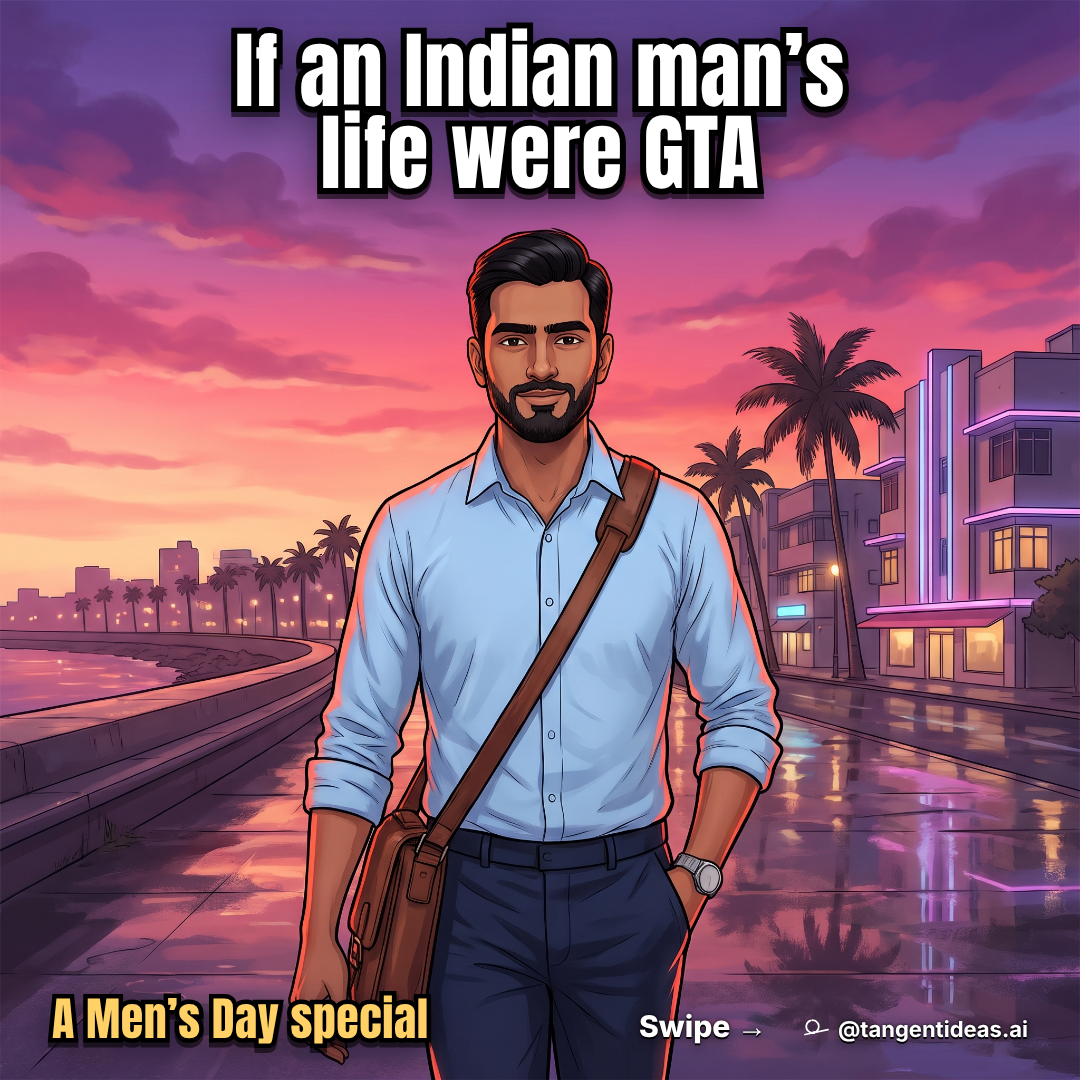
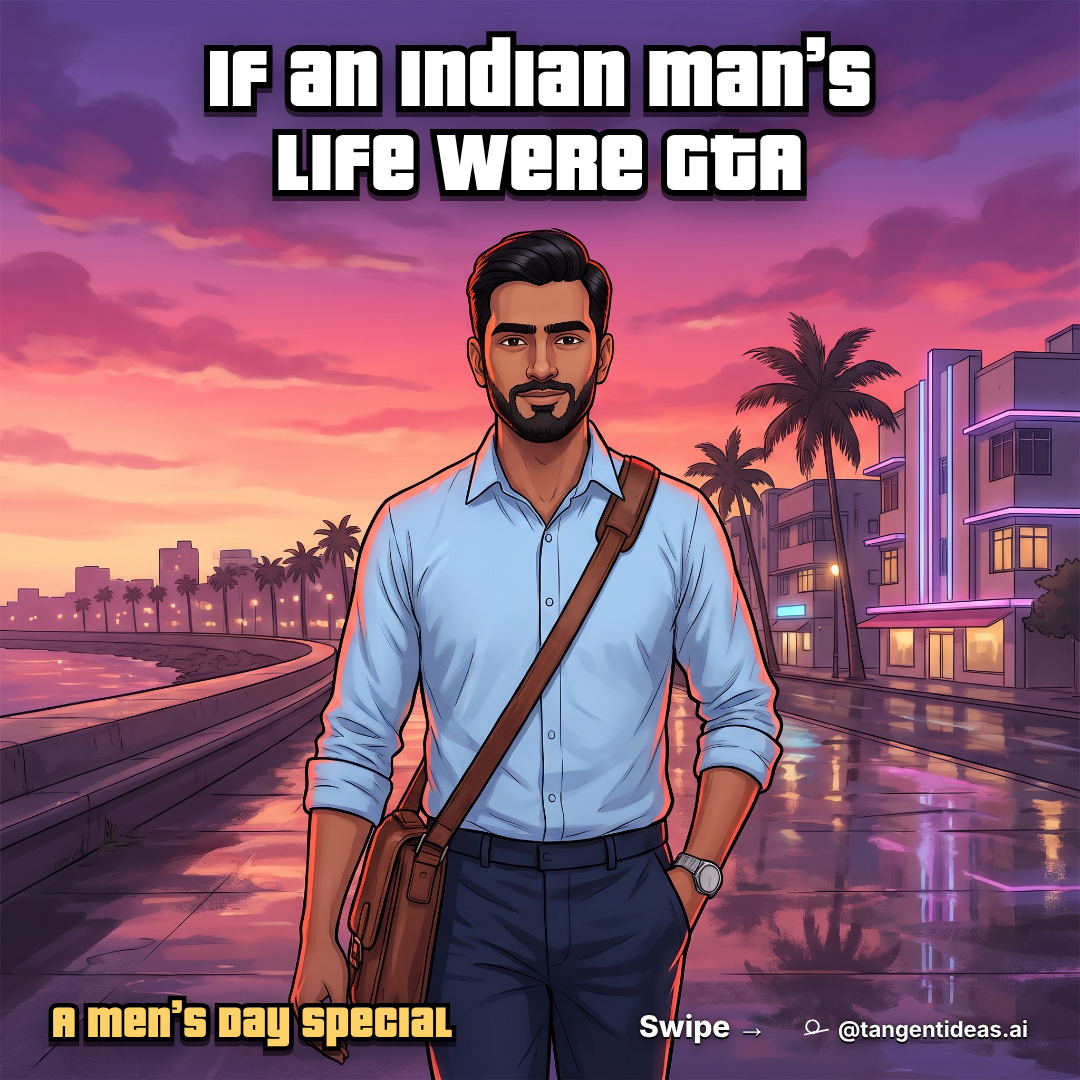
optB: Pricedown headlines, slide 3 line fix, re-render
Slide 3 second line is now "Resting doesn't fix it." to match optB/carousel.md.
Headlines render in Pricedown Black (same outline + drop-shadow treatment as
optA; font stays git-ignored). Small B lines on slides 2, 3 and 6 use Inter 800
yellow, because Pricedown's 1 reads as I at small sizes. The cover's B line stays
Pricedown. The rupee sign on slide 4 is set in Inter because neither display face
has the glyph. Re-rendered slides 01-08 + contact sheet; overflow check clean.

Claude-Session: https://claude.ai/code/session_01ETPVMNAgrWUka4sohQFQn4

Changed region(s): [[0.1833, 0.0, 0.825, 0.2139], [0.0306, 0.9167, 0.4278, 0.9778]]

diff --git a/productions/2026-11-gta6-mens-day/optB/slides/html/slide-03.html b/productions/2026-11-gta6-mens-day/optB/slides/html/slide-03.html
@@ -1,12 +1,14 @@
 <!doctype html><html><head><meta charset="utf-8"><style>
 @import url('https://fonts.googleapis.com/css2?family=Anton&family=Inter:wght@600;700;800;900&display=block');
-
+@font-face{font-family:'PD';src:url('file:///home/user/tangent-social-media/productions/2026-11-gta6-mens-day/fonts/PricedownBl.otf');font-display:block}
 *{box-sizing:border-box}
 html,body{margin:0;width:1080px;height:1080px;overflow:hidden;color:#fff}
 .s{position:relative;width:1080px;height:1080px;padding:40px 52px 36px;display:flex;flex-direction:column}
 .o{paint-order:stroke fill;-webkit-text-stroke:var(--sw,12px) #000;filter:drop-shadow(0 5px 0 rgba(0,0,0,.55)) drop-shadow(0 8px 18px rgba(10,4,20,.45))}
-h1{margin:0;font:400 var(--hs,66px)/1.02 Anton,Impact,sans-serif;letter-spacing:.01em;text-wrap:balance}
-.b{margin-top:8px;font:400 var(--bs,40px)/1.08 Anton,Impact,sans-serif;color:#ffd166;--sw:9px;letter-spacing:.01em;text-wrap:balance}
+h1{margin:0;font:400 var(--hs,66px)/1.02 'PD',Anton,Impact,sans-serif;letter-spacing:.01em;text-wrap:balance}
+.b{margin-top:8px;font:400 var(--bs,40px)/1.08 'PD',Anton,Impact,sans-serif;color:#ffd166;--sw:9px;letter-spacing:.01em;text-wrap:balance}
+/* With Pricedown, small B lines switch to Inter 800 (Pricedown's 1 reads as I at small sizes; same call as optA). */
+.b:not(.pd){font:800 calc(var(--bs,40px) * 1.0)/1.14 Inter,sans-serif;--sw:8px;letter-spacing:-.005em}
 .spacer{flex:1}
 .foot{display:flex;align-items:flex-end;gap:10px}
 .handle{margin-left:auto;display:flex;gap:9px;align-items:center;font:700 22px Inter;text-shadow:0 2px 0 #000,0 0 3px #000,0 3px 12px rgba(0,0,0,.6)}
@@ -14,6 +16,6 @@ h1{margin:0;font:400 var(--hs,66px)/1.02 Anton,Impact,sans-serif;letter-spacing:
 h1{--hs:68px} .hp{margin-top:18px;display:flex;align-items:center;gap:12px;filter:drop-shadow(0 5px 0 rgba(0,0,0,.55)) drop-shadow(0 8px 18px rgba(10,4,20,.45))}
    .bar{width:380px;height:34px;border:5px solid #000;border-radius:6px;background:rgba(40,10,20,.75);padding:3px;box-shadow:inset 0 0 0 2px rgba(255,255,255,.25)}
    .fill{width:9%;height:100%;background:linear-gradient(#ff6b6b,#d61f1f);border-radius:2px}</style></head>
-<body style="background:url('file:///home/user/tangent-social-media/productions/2026-11-gta6-mens-day/optB/assets/pick/img-03.png') center/cover no-repeat #222"><div class="s"><h1 class="o">Health: back pain at&nbsp;32.</h1><div class="b o">Doesn&rsquo;t refill.</div><div class="hp"><svg width="44" height="40" viewBox="0 0 100 90"><path d="M50 86 C10 58 2 38 8 22 C16 2 42 4 50 22 C58 4 84 2 92 22 C98 38 90 58 50 86Z" fill="#ff3b3b" stroke="#000" stroke-width="9" stroke-linejoin="round"/></svg>
+<body style="background:url('file:///home/user/tangent-social-media/productions/2026-11-gta6-mens-day/optB/assets/pick/img-03.png') center/cover no-repeat #222"><div class="s"><h1 class="o">Health: back pain at&nbsp;32.</h1><div class="b o">Resting doesn&rsquo;t fix&nbsp;it.</div><div class="hp"><svg width="44" height="40" viewBox="0 0 100 90"><path d="M50 86 C10 58 2 38 8 22 C16 2 42 4 50 22 C58 4 84 2 92 22 C98 38 90 58 50 86Z" fill="#ff3b3b" stroke="#000" stroke-width="9" stroke-linejoin="round"/></svg>
   <div class="bar"><div class="fill"></div></div></div><div class="spacer"></div>
 <div class="foot"><div class="handle"><svg viewBox="0 0 120 120" fill="none" width="30" height="30"><path d="M 52.26 25.06 A 25 25 0 1 1 45.45 26.5" stroke="currentColor" stroke-width="7" stroke-linecap="round"/><line x1="24" y1="82" x2="116.2" y2="62.4" stroke="currentColor" stroke-width="7" stroke-linecap="round"/><circle cx="59.2" cy="74.5" r="5.6" fill="currentColor"/></svg><span>@tangentideas.ai</span></div></div></div></body></html>

diff --git a/productions/2026-11-gta6-mens-day/optB/slides/html/slide-01.html b/productions/2026-11-gta6-mens-day/optB/slides/html/slide-01.html
@@ -1,18 +1,20 @@
 <!doctype html><html><head><meta charset="utf-8"><style>
 @import url('https://fonts.googleapis.com/css2?family=Anton&family=Inter:wght@600;700;800;900&display=block');
-
+@font-face{font-family:'PD';src:url('file:///home/user/tangent-social-media/productions/2026-11-gta6-mens-day/fonts/PricedownBl.otf');font-display:block}
 *{box-sizing:border-box}
 html,body{margin:0;width:1080px;height:1080px;overflow:hidden;color:#fff}
 .s{position:relative;width:1080px;height:1080px;padding:40px 52px 36px;display:flex;flex-direction:column}
 .o{paint-order:stroke fill;-webkit-text-stroke:var(--sw,12px) #000;filter:drop-shadow(0 5px 0 rgba(0,0,0,.55)) drop-shadow(0 8px 18px rgba(10,4,20,.45))}
-h1{margin:0;font:400 var(--hs,66px)/1.02 Anton,Impact,sans-serif;letter-spacing:.01em;text-wrap:balance}
-.b{margin-top:8px;font:400 var(--bs,40px)/1.08 Anton,Impact,sans-serif;color:#ffd166;--sw:9px;letter-spacing:.01em;text-wrap:balance}
+h1{margin:0;font:400 var(--hs,66px)/1.02 'PD',Anton,Impact,sans-serif;letter-spacing:.01em;text-wrap:balance}
+.b{margin-top:8px;font:400 var(--bs,40px)/1.08 'PD',Anton,Impact,sans-serif;color:#ffd166;--sw:9px;letter-spacing:.01em;text-wrap:balance}
+/* With Pricedown, small B lines switch to Inter 800 (Pricedown's 1 reads as I at small sizes; same call as optA). */
+.b:not(.pd){font:800 calc(var(--bs,40px) * 1.0)/1.14 Inter,sans-serif;--sw:8px;letter-spacing:-.005em}
 .spacer{flex:1}
 .foot{display:flex;align-items:flex-end;gap:10px}
 .handle{margin-left:auto;display:flex;gap:9px;align-items:center;font:700 22px Inter;text-shadow:0 2px 0 #000,0 0 3px #000,0 3px 12px rgba(0,0,0,.6)}
 .hud{position:absolute;font-family:Inter}
-.s{padding-top:30px} h1{--hs:84px;line-height:.98;max-width:900px;margin:0 auto}
+.s{padding-top:30px} h1{--hs:86px;line-height:.98;max-width:900px;margin:0 auto}
    .swipe{font:800 30px Inter;text-shadow:0 2px 0 #000,0 0 3px #000,0 3px 12px rgba(0,0,0,.6);margin-left:auto;margin-right:22px}
    .handle{margin-left:0}</style></head>
 <body style="background:url('file:///home/user/tangent-social-media/productions/2026-11-gta6-mens-day/optB/assets/pick/img-01.png') center/cover no-repeat #222"><div class="s"><h1 class="o" style="text-align:center">If an Indian man&rsquo;s life were GTA</h1><div class="spacer"></div>
-<div class="foot"><div class="b o" style="--bs:46px;margin:0">A Men&rsquo;s Day special</div><span class="swipe">Swipe &rarr;</span><div class="handle"><svg viewBox="0 0 120 120" fill="none" width="30" height="30"><path d="M 52.26 25.06 A 25 25 0 1 1 45.45 26.5" stroke="currentColor" stroke-width="7" stroke-linecap="round"/><line x1="24" y1="82" x2="116.2" y2="62.4" stroke="currentColor" stroke-width="7" stroke-linecap="round"/><circle cx="59.2" cy="74.5" r="5.6" fill="currentColor"/></svg><span>@tangentideas.ai</span></div></div></div></body></html>
+<div class="foot"><div class="b o pd" style="--bs:46px;margin:0">A Men&rsquo;s Day special</div><span class="swipe">Swipe &rarr;</span><div class="handle"><svg viewBox="0 0 120 120" fill="none" width="30" height="30"><path d="M 52.26 25.06 A 25 25 0 1 1 45.45 26.5" stroke="currentColor" stroke-width="7" stroke-linecap="round"/><line x1="24" y1="82" x2="116.2" y2="62.4" stroke="currentColor" stroke-width="7" stroke-linecap="round"/><circle cx="59.2" cy="74.5" r="5.6" fill="currentColor"/></svg><span>@tangentideas.ai</span></div></div></div></body></html>

diff --git a/productions/2026-11-gta6-mens-day/optB/slides/html/slide-04.html b/productions/2026-11-gta6-mens-day/optB/slides/html/slide-04.html
@@ -1,17 +1,19 @@
 <!doctype html><html><head><meta charset="utf-8"><style>
 @import url('https://fonts.googleapis.com/css2?family=Anton&family=Inter:wght@600;700;800;900&display=block');
-
+@font-face{font-family:'PD';src:url('file:///home/user/tangent-social-media/productions/2026-11-gta6-mens-day/fonts/PricedownBl.otf');font-display:block}
 *{box-sizing:border-box}
 html,body{margin:0;width:1080px;height:1080px;overflow:hidden;color:#fff}
 .s{position:relative;width:1080px;height:1080px;padding:40px 52px 36px;display:flex;flex-direction:column}
 .o{paint-order:stroke fill;-webkit-text-stroke:var(--sw,12px) #000;filter:drop-shadow(0 5px 0 rgba(0,0,0,.55)) drop-shadow(0 8px 18px rgba(10,4,20,.45))}
-h1{margin:0;font:400 var(--hs,66px)/1.02 Anton,Impact,sans-serif;letter-spacing:.01em;text-wrap:balance}
-.b{margin-top:8px;font:400 var(--bs,40px)/1.08 Anton,Impact,sans-serif;color:#ffd166;--sw:9px;letter-spacing:.01em;text-wrap:balance}
+h1{margin:0;font:400 var(--hs,66px)/1.02 'PD',Anton,Impact,sans-serif;letter-spacing:.01em;text-wrap:balance}
+.b{margin-top:8px;font:400 var(--bs,40px)/1.08 'PD',Anton,Impact,sans-serif;color:#ffd166;--sw:9px;letter-spacing:.01em;text-wrap:balance}
+/* With Pricedown, small B lines switch to Inter 800 (Pricedown's 1 reads as I at small sizes; same call as optA). */
+.b:not(.pd){font:800 calc(var(--bs,40px) * 1.0)/1.14 Inter,sans-serif;--sw:8px;letter-spacing:-.005em}
 .spacer{flex:1}
 .foot{display:flex;align-items:flex-end;gap:10px}
 .handle{margin-left:auto;display:flex;gap:9px;align-items:center;font:700 22px Inter;text-shadow:0 2px 0 #000,0 0 3px #000,0 3px 12px rgba(0,0,0,.6)}
 .hud{position:absolute;font-family:Inter}
-h1{--hs:64px;max-width:960px} .money{margin-top:22px;font:400 54px/1.08 Anton,Impact,sans-serif;--sw:10px}
-   .in{color:#5ef08a} .out{color:#ff5050}</style></head>
-<body style="background:url('file:///home/user/tangent-social-media/productions/2026-11-gta6-mens-day/optB/assets/pick/img-04.png') center/cover no-repeat #222"><div class="s"><h1 class="o">Money: salary in, EMI&nbsp;out.<br>Same minute.</h1><div class="money"><div class="in o">+&#8377; salary</div><div class="out o">&minus;&#8377; EMI</div></div><div class="spacer"></div>
+h1{--hs:64px;max-width:960px} .money{margin-top:22px;font:400 54px/1.08 'PD',Anton,Impact,sans-serif;--sw:10px}
+   .in{color:#5ef08a} .out{color:#ff5050} .rs{font-family:Inter,sans-serif;font-weight:900;font-size:.9em} /* display faces lack the rupee glyph */</style></head>
+<body style="background:url('file:///home/user/tangent-social-media/productions/2026-11-gta6-mens-day/optB/assets/pick/img-04.png') center/cover no-repeat #222"><div class="s"><h1 class="o">Money: salary in, EMI&nbsp;out.<br>Same minute.</h1><div class="money"><div class="in o">+<span class="rs">&#8377;</span> salary</div><div class="out o">&minus;<span class="rs">&#8377;</span> EMI</div></div><div class="spacer"></div>
 <div class="foot"><div class="handle"><svg viewBox="0 0 120 120" fill="none" width="30" height="30"><path d="M 52.26 25.06 A 25 25 0 1 1 45.45 26.5" stroke="currentColor" stroke-width="7" stroke-linecap="round"/><line x1="24" y1="82" x2="116.2" y2="62.4" stroke="currentColor" stroke-width="7" stroke-linecap="round"/><circle cx="59.2" cy="74.5" r="5.6" fill="currentColor"/></svg><span>@tangentideas.ai</span></div></div></div></body></html>

diff --git a/productions/2026-11-gta6-mens-day/optB/slides/html/slide-07.html b/productions/2026-11-gta6-mens-day/optB/slides/html/slide-07.html
@@ -1,16 +1,18 @@
 <!doctype html><html><head><meta charset="utf-8"><style>
 @import url('https://fonts.googleapis.com/css2?family=Anton&family=Inter:wght@600;700;800;900&display=block');
-
+@font-face{font-family:'PD';src:url('file:///home/user/tangent-social-media/productions/2026-11-gta6-mens-day/fonts/PricedownBl.otf');font-display:block}
 *{box-sizing:border-box}
 html,body{margin:0;width:1080px;height:1080px;overflow:hidden;color:#fff}
 .s{position:relative;width:1080px;height:1080px;padding:40px 52px 36px;display:flex;flex-direction:column}
 .o{paint-order:stroke fill;-webkit-text-stroke:var(--sw,12px) #000;filter:drop-shadow(0 5px 0 rgba(0,0,0,.55)) drop-shadow(0 8px 18px rgba(10,4,20,.45))}
-h1{margin:0;font:400 var(--hs,66px)/1.02 Anton,Impact,sans-serif;letter-spacing:.01em;text-wrap:balance}
-.b{margin-top:8px;font:400 var(--bs,40px)/1.08 Anton,Impact,sans-serif;color:#ffd166;--sw:9px;letter-spacing:.01em;text-wrap:balance}
+h1{margin:0;font:400 var(--hs,66px)/1.02 'PD',Anton,Impact,sans-serif;letter-spacing:.01em;text-wrap:balance}
+.b{margin-top:8px;font:400 var(--bs,40px)/1.08 'PD',Anton,Impact,sans-serif;color:#ffd166;--sw:9px;letter-spacing:.01em;text-wrap:balance}
+/* With Pricedown, small B lines switch to Inter 800 (Pricedown's 1 reads as I at small sizes; same call as optA). */
+.b:not(.pd){font:800 calc(var(--bs,40px) * 1.0)/1.14 Inter,sans-serif;--sw:8px;letter-spacing:-.005em}
 .spacer{flex:1}
 .foot{display:flex;align-items:flex-end;gap:10px}
 .handle{margin-left:auto;display:flex;gap:9px;align-items:center;font:700 22px Inter;text-shadow:0 2px 0 #000,0 0 3px #000,0 3px 12px rgba(0,0,0,.6)}
 .hud{position:absolute;font-family:Inter}
-h1{--hs:76px} .b2{margin-top:6px;max-width:820px;font:400 54px/1.04 Anton,Impact,sans-serif;--sw:10px;letter-spacing:.01em;text-wrap:balance}</style></head>
+h1{--hs:76px} .b2{margin-top:6px;max-width:820px;font:400 54px/1.04 'PD',Anton,Impact,sans-serif;--sw:10px;letter-spacing:.01em;text-wrap:balance}</style></head>
 <body style="background:url('file:///home/user/tangent-social-media/productions/2026-11-gta6-mens-day/optB/assets/pick/img-07.png') center/cover no-repeat #222"><div class="s"><h1 class="o">Life on hard mode.</h1><div class="b2 o">Happy Men&rsquo;s Day to every man still&nbsp;playing.</div><div class="spacer"></div>
 <div class="foot"><div class="handle"><svg viewBox="0 0 120 120" fill="none" width="30" height="30"><path d="M 52.26 25.06 A 25 25 0 1 1 45.45 26.5" stroke="currentColor" stroke-width="7" stroke-linecap="round"/><line x1="24" y1="82" x2="116.2" y2="62.4" stroke="currentColor" stroke-width="7" stroke-linecap="round"/><circle cx="59.2" cy="74.5" r="5.6" fill="currentColor"/></svg><span>@tangentideas.ai</span></div></div></div></body></html>

diff --git a/productions/2026-11-gta6-mens-day/optB/slides/html/slide-08.html b/productions/2026-11-gta6-mens-day/optB/slides/html/slide-08.html
@@ -1,18 +1,20 @@
 <!doctype html><html><head><meta charset="utf-8"><style>
 @import url('https://fonts.googleapis.com/css2?family=Anton&family=Inter:wght@600;700;800;900&display=block');
-
+@font-face{font-family:'PD';src:url('file:///home/user/tangent-social-media/productions/2026-11-gta6-mens-day/fonts/PricedownBl.otf');font-display:block}
 *{box-sizing:border-box}
 html,body{margin:0;width:1080px;height:1080px;overflow:hidden;color:#fff}
 .s{position:relative;width:1080px;height:1080px;padding:40px 52px 36px;display:flex;flex-direction:column}
 .o{paint-order:stroke fill;-webkit-text-stroke:var(--sw,12px) #000;filter:drop-shadow(0 5px 0 rgba(0,0,0,.55)) drop-shadow(0 8px 18px rgba(10,4,20,.45))}
-h1{margin:0;font:400 var(--hs,66px)/1.02 Anton,Impact,sans-serif;letter-spacing:.01em;text-wrap:balance}
-.b{margin-top:8px;font:400 var(--bs,40px)/1.08 Anton,Impact,sans-serif;color:#ffd166;--sw:9px;letter-spacing:.01em;text-wrap:balance}
+h1{margin:0;font:400 var(--hs,66px)/1.02 'PD',Anton,Impact,sans-serif;letter-spacing:.01em;text-wrap:balance}
+.b{margin-top:8px;font:400 var(--bs,40px)/1.08 'PD',Anton,Impact,sans-serif;color:#ffd166;--sw:9px;letter-spacing:.01em;text-wrap:balance}
+/* With Pricedown, small B lines switch to Inter 800 (Pricedown's 1 reads as I at small sizes; same call as optA). */
+.b:not(.pd){font:800 calc(var(--bs,40px) * 1.0)/1.14 Inter,sans-serif;--sw:8px;letter-spacing:-.005em}
 .spacer{flex:1}
 .foot{display:flex;align-items:flex-end;gap:10px}
 .handle{margin-left:auto;display:flex;gap:9px;align-items:center;font:700 22px Inter;text-shadow:0 2px 0 #000,0 0 3px #000,0 3px 12px rgba(0,0,0,.6)}
 .hud{position:absolute;font-family:Inter}
 .card{margin:70px auto 0;width:860px;background:rgba(26,15,34,.86);border:3px solid #ffd166;border-radius:14px;padding:42px 52px}
-   .ct{font:400 58px/1.04 Anton,Impact,sans-serif;--sw:10px;text-wrap:balance;letter-spacing:.01em} .cs{margin-top:16px;font:700 32px/1.3 Inter;color:#ffd166}
+   .ct{font:400 58px/1.04 'PD',Anton,Impact,sans-serif;--sw:10px;text-wrap:balance;letter-spacing:.01em} .cs{margin-top:16px;font:700 32px/1.3 Inter;color:#ffd166}
    .rows{margin-top:26px;display:grid;gap:10px;font:600 30px Inter} .rows span{display:inline-block;width:190px;color:#c9b8d8}
    .handle{display:none}</style></head>
 <body style="background:url('file:///home/user/tangent-social-media/productions/2026-11-gta6-mens-day/optB/assets/pick/img-08.png') center/cover no-repeat #222"><div class="s"><div class="card"><div class="ct o">Made with AI by a guy who should be playing GTA&nbsp;6 right&nbsp;now.</div>

diff --git a/productions/2026-11-gta6-mens-day/optB/slides/html/slide-02.html b/productions/2026-11-gta6-mens-day/optB/slides/html/slide-02.html
@@ -1,12 +1,14 @@
 <!doctype html><html><head><meta charset="utf-8"><style>
 @import url('https://fonts.googleapis.com/css2?family=Anton&family=Inter:wght@600;700;800;900&display=block');
-
+@font-face{font-family:'PD';src:url('file:///home/user/tangent-social-media/productions/2026-11-gta6-mens-day/fonts/PricedownBl.otf');font-display:block}
 *{box-sizing:border-box}
 html,body{margin:0;width:1080px;height:1080px;overflow:hidden;color:#fff}
 .s{position:relative;width:1080px;height:1080px;padding:40px 52px 36px;display:flex;flex-direction:column}
 .o{paint-order:stroke fill;-webkit-text-stroke:var(--sw,12px) #000;filter:drop-shadow(0 5px 0 rgba(0,0,0,.55)) drop-shadow(0 8px 18px rgba(10,4,20,.45))}
-h1{margin:0;font:400 var(--hs,66px)/1.02 Anton,Impact,sans-serif;letter-spacing:.01em;text-wrap:balance}
-.b{margin-top:8px;font:400 var(--bs,40px)/1.08 Anton,Impact,sans-serif;color:#ffd166;--sw:9px;letter-spacing:.01em;text-wrap:balance}
+h1{margin:0;font:400 var(--hs,66px)/1.02 'PD',Anton,Impact,sans-serif;letter-spacing:.01em;text-wrap:balance}
+.b{margin-top:8px;font:400 var(--bs,40px)/1.08 'PD',Anton,Impact,sans-serif;color:#ffd166;--sw:9px;letter-spacing:.01em;text-wrap:balance}
+/* With Pricedown, small B lines switch to Inter 800 (Pricedown's 1 reads as I at small sizes; same call as optA). */
+.b:not(.pd){font:800 calc(var(--bs,40px) * 1.0)/1.14 Inter,sans-serif;--sw:8px;letter-spacing:-.005em}
 .spacer{flex:1}
 .foot{display:flex;align-items:flex-end;gap:10px}
 .handle{margin-left:auto;display:flex;gap:9px;align-items:center;font:700 22px Inter;text-shadow:0 2px 0 #000,0 0 3px #000,0 3px 12px rgba(0,0,0,.6)}

diff --git a/productions/2026-11-gta6-mens-day/optB/slides/html/slide-05.html b/productions/2026-11-gta6-mens-day/optB/slides/html/slide-05.html
@@ -1,12 +1,14 @@
 <!doctype html><html><head><meta charset="utf-8"><style>
 @import url('https://fonts.googleapis.com/css2?family=Anton&family=Inter:wght@600;700;800;900&display=block');
-
+@font-face{font-family:'PD';src:url('file:///home/user/tangent-social-media/productions/2026-11-gta6-mens-day/fonts/PricedownBl.otf');font-display:block}
 *{box-sizing:border-box}
 html,body{margin:0;width:1080px;height:1080px;overflow:hidden;color:#fff}
 .s{position:relative;width:1080px;height:1080px;padding:40px 52px 36px;display:flex;flex-direction:column}
 .o{paint-order:stroke fill;-webkit-text-stroke:var(--sw,12px) #000;filter:drop-shadow(0 5px 0 rgba(0,0,0,.55)) drop-shadow(0 8px 18px rgba(10,4,20,.45))}
-h1{margin:0;font:400 var(--hs,66px)/1.02 Anton,Impact,sans-serif;letter-spacing:.01em;text-wrap:balance}
-.b{margin-top:8px;font:400 var(--bs,40px)/1.08 Anton,Impact,sans-serif;color:#ffd166;--sw:9px;letter-spacing:.01em;text-wrap:balance}
+h1{margin:0;font:400 var(--hs,66px)/1.02 'PD',Anton,Impact,sans-serif;letter-spacing:.01em;text-wrap:balance}
+.b{margin-top:8px;font:400 var(--bs,40px)/1.08 'PD',Anton,Impact,sans-serif;color:#ffd166;--sw:9px;letter-spacing:.01em;text-wrap:balance}
+/* With Pricedown, small B lines switch to Inter 800 (Pricedown's 1 reads as I at small sizes; same call as optA). */
+.b:not(.pd){font:800 calc(var(--bs,40px) * 1.0)/1.14 Inter,sans-serif;--sw:8px;letter-spacing:-.005em}
 .spacer{flex:1}
 .foot{display:flex;align-items:flex-end;gap:10px}
 .handle{margin-left:auto;display:flex;gap:9px;align-items:center;font:700 22px Inter;text-shadow:0 2px 0 #000,0 0 3px #000,0 3px 12px rgba(0,0,0,.6)}

diff --git a/productions/2026-11-gta6-mens-day/optB/slides/html/slide-06.html b/productions/2026-11-gta6-mens-day/optB/slides/html/slide-06.html
@@ -1,12 +1,14 @@
 <!doctype html><html><head><meta charset="utf-8"><style>
 @import url('https://fonts.googleapis.com/css2?family=Anton&family=Inter:wght@600;700;800;900&display=block');
-
+@font-face{font-family:'PD';src:url('file:///home/user/tangent-social-media/productions/2026-11-gta6-mens-day/fonts/PricedownBl.otf');font-display:block}
 *{box-sizing:border-box}
 html,body{margin:0;width:1080px;height:1080px;overflow:hidden;color:#fff}
 .s{position:relative;width:1080px;height:1080px;padding:40px 52px 36px;display:flex;flex-direction:column}
 .o{paint-order:stroke fill;-webkit-text-stroke:var(--sw,12px) #000;filter:drop-shadow(0 5px 0 rgba(0,0,0,.55)) drop-shadow(0 8px 18px rgba(10,4,20,.45))}
-h1{margin:0;font:400 var(--hs,66px)/1.02 Anton,Impact,sans-serif;letter-spacing:.01em;text-wrap:balance}
-.b{margin-top:8px;font:400 var(--bs,40px)/1.08 Anton,Impact,sans-serif;color:#ffd166;--sw:9px;letter-spacing:.01em;text-wrap:balance}
+h1{margin:0;font:400 var(--hs,66px)/1.02 'PD',Anton,Impact,sans-serif;letter-spacing:.01em;text-wrap:balance}
+.b{margin-top:8px;font:400 var(--bs,40px)/1.08 'PD',Anton,Impact,sans-serif;color:#ffd166;--sw:9px;letter-spacing:.01em;text-wrap:balance}
+/* With Pricedown, small B lines switch to Inter 800 (Pricedown's 1 reads as I at small sizes; same call as optA). */
+.b:not(.pd){font:800 calc(var(--bs,40px) * 1.0)/1.14 Inter,sans-serif;--sw:8px;letter-spacing:-.005em}
 .spacer{flex:1}
 .foot{display:flex;align-items:flex-end;gap:10px}
 .handle{margin-left:auto;display:flex;gap:9px;align-items:center;font:700 22px Inter;text-shadow:0 2px 0 #000,0 0 3px #000,0 3px 12px rgba(0,0,0,.6)}
